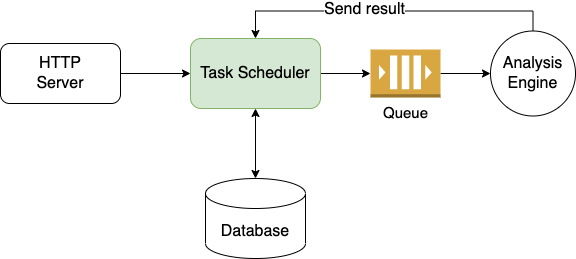
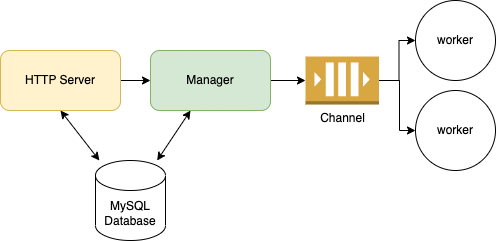
doc: Add system design document

diff --git a/doc/api.md b/doc/api.md
@@ -1,0 +1,150 @@
+# API document
+
+---
+
+The server handles error codes (400, 404, 500) with the following format
+
+```json
+{
+    "message" : "server error message goes here"
+}
+```
+
+# Repository
+
+## List all repositories
+
+`GET http://localhost:8080/api/repos`
+
+Returned a list of repositories
+
+```
+[
+    {
+        "id": 3,
+        "name": "vuln",
+        "link": "https://github.com/lotusirous/vuln",
+        "created": 1673836676,
+        "updated": 1673836676
+    }
+]
+```
+
+## Create a repository
+
+`POST http://localhost:8080/api/repos`
+
+Example request body:
+
+```
+{
+    "name": "vuln-example",
+    "link": "https://github.com/lotusirous/vuln"
+}
+```
+
+## Update a repository
+
+`PUT http://localhost:8080/api/repos/{id}`
+
+Example request body:
+
+```json
+{
+    "name": "vuln-example"
+}
+```
+
+## Delete a repository
+
+`DELETE http://localhost:8080/api/repos/{id}`
+
+Return a `NO CONTENT` http status code if success
+
+# Scans
+
+## List all scans
+
+`GET http://localhost:8080/api/scans`
+
+```
+[
+    {
+        "id": 2,
+        "repository": 3,
+        "status": "Success",
+        "enqueuedAt": 1673836959,
+        "startedAt": 1673836959,
+        "finishedAt": 0
+    },
+    {
+        "id": 3,
+        "repository": 3,
+        "status": "Success",
+        "enqueuedAt": 1673837449,
+        "startedAt": 1673837449,
+        "finishedAt": 1673837450
+    }
+]
+```
+
+## Scan a repository
+
+`POST http://localhost:8080/api/scans
+`
+
+```
+{
+ "repoID" : 3
+}
+```
+
+## Get the scan result
+
+`GET http://localhost:8080/api/scans/2`
+
+```
+{
+    "id": 2,
+    "repoName": "vuln",
+    "repoURL": "https://github.com/lotusirous/vuln",
+    "status": "Success",
+    "enqueuedAt": 1673836959,
+    "startedAt": 1673836959,
+    "finishedAt": 0,
+    "findings": [
+        {
+            "type": "sast",
+            "ruleId": "G402",
+            "location": {
+                "path": "/src/main.py",
+                "positions": {
+                    "begin": {
+                        "line": 1
+                    }
+                }
+            },
+            "metadata": {
+                "description": "Leak the cryptography keys",
+                "severity": "HIGH"
+            }
+        },
+        {
+            "type": "sast",
+            "ruleId": "G402",
+            "location": {
+                "path": "/src/main.py",
+                "positions": {
+                    "begin": {
+                        "line": 2
+                    }
+                }
+            },
+            "metadata": {
+                "description": "Leak the cryptography keys",
+                "severity": "HIGH"
+            }
+        }
+    ]
+}
+```

diff --git a/doc/system-design.md b/doc/system-design.md
@@ -1,12 +1,23 @@
 # System Design
 
-Codescan consists of the following 2 main components
+Codescan is a single program that comprises two primary components that run concurrently using Go routines.
 
-- The web http server renders the UI/API for user to submit the public repo.
-- The task scheduler manages the queue and worker. The worker that downloads public git repositories, scans them for vulnerabilities based on rules, and stores the scan data in the database.
+- The web HTTP server provides the REST API for users.
+- The task scheduler retrieves scan tasks from the web server, schedules, and updates the task to run.
+- The manager configures and spawns a number of workers. These workers download public Git repositories, scan them for vulnerabilities using defined rules, and store the findings in a database.
 
 ![Architecture](architecture.png 'Codescan Architecture')
+
+When user submits a new scan task, the manager will manages a transaction for creating/updating the scan task with the database.
+
+## Discussion
+
+Separating the worker into a separate process may seem like a logical solution, however, it would also come with additional complexities. This is because it would require implementing a distributed queue system, such as Redis or a cloud-based task queue. These types of queues allow for the distribution of tasks to multiple workers and can handle a large number of concurrent requests. However, implementing a distributed queue also introduces additional considerations and events that must be handled.
+
+For example, the enqueue process may fail or the network connection may drop, which would require retrying a task for the worker. Additionally, when a worker completes or fails a task, it must send the result back to the manager, which could be done via Remote Procedure Calls (RPC) or a task queue. These extra events and processes add complexity and require additional development time and resources. For this reason, it's not considered a good choice.
 
 ## Improvements
 
 **Rate limiter**: The resources available for a user depend on the cost they pay. It is important to limit the number of tasks for the reliability of our service.
+
+**Caching**: To improve database query performance, the web server can implement caching, which temporarily stores frequently accessed data to reduce load on the database and improve response time.
